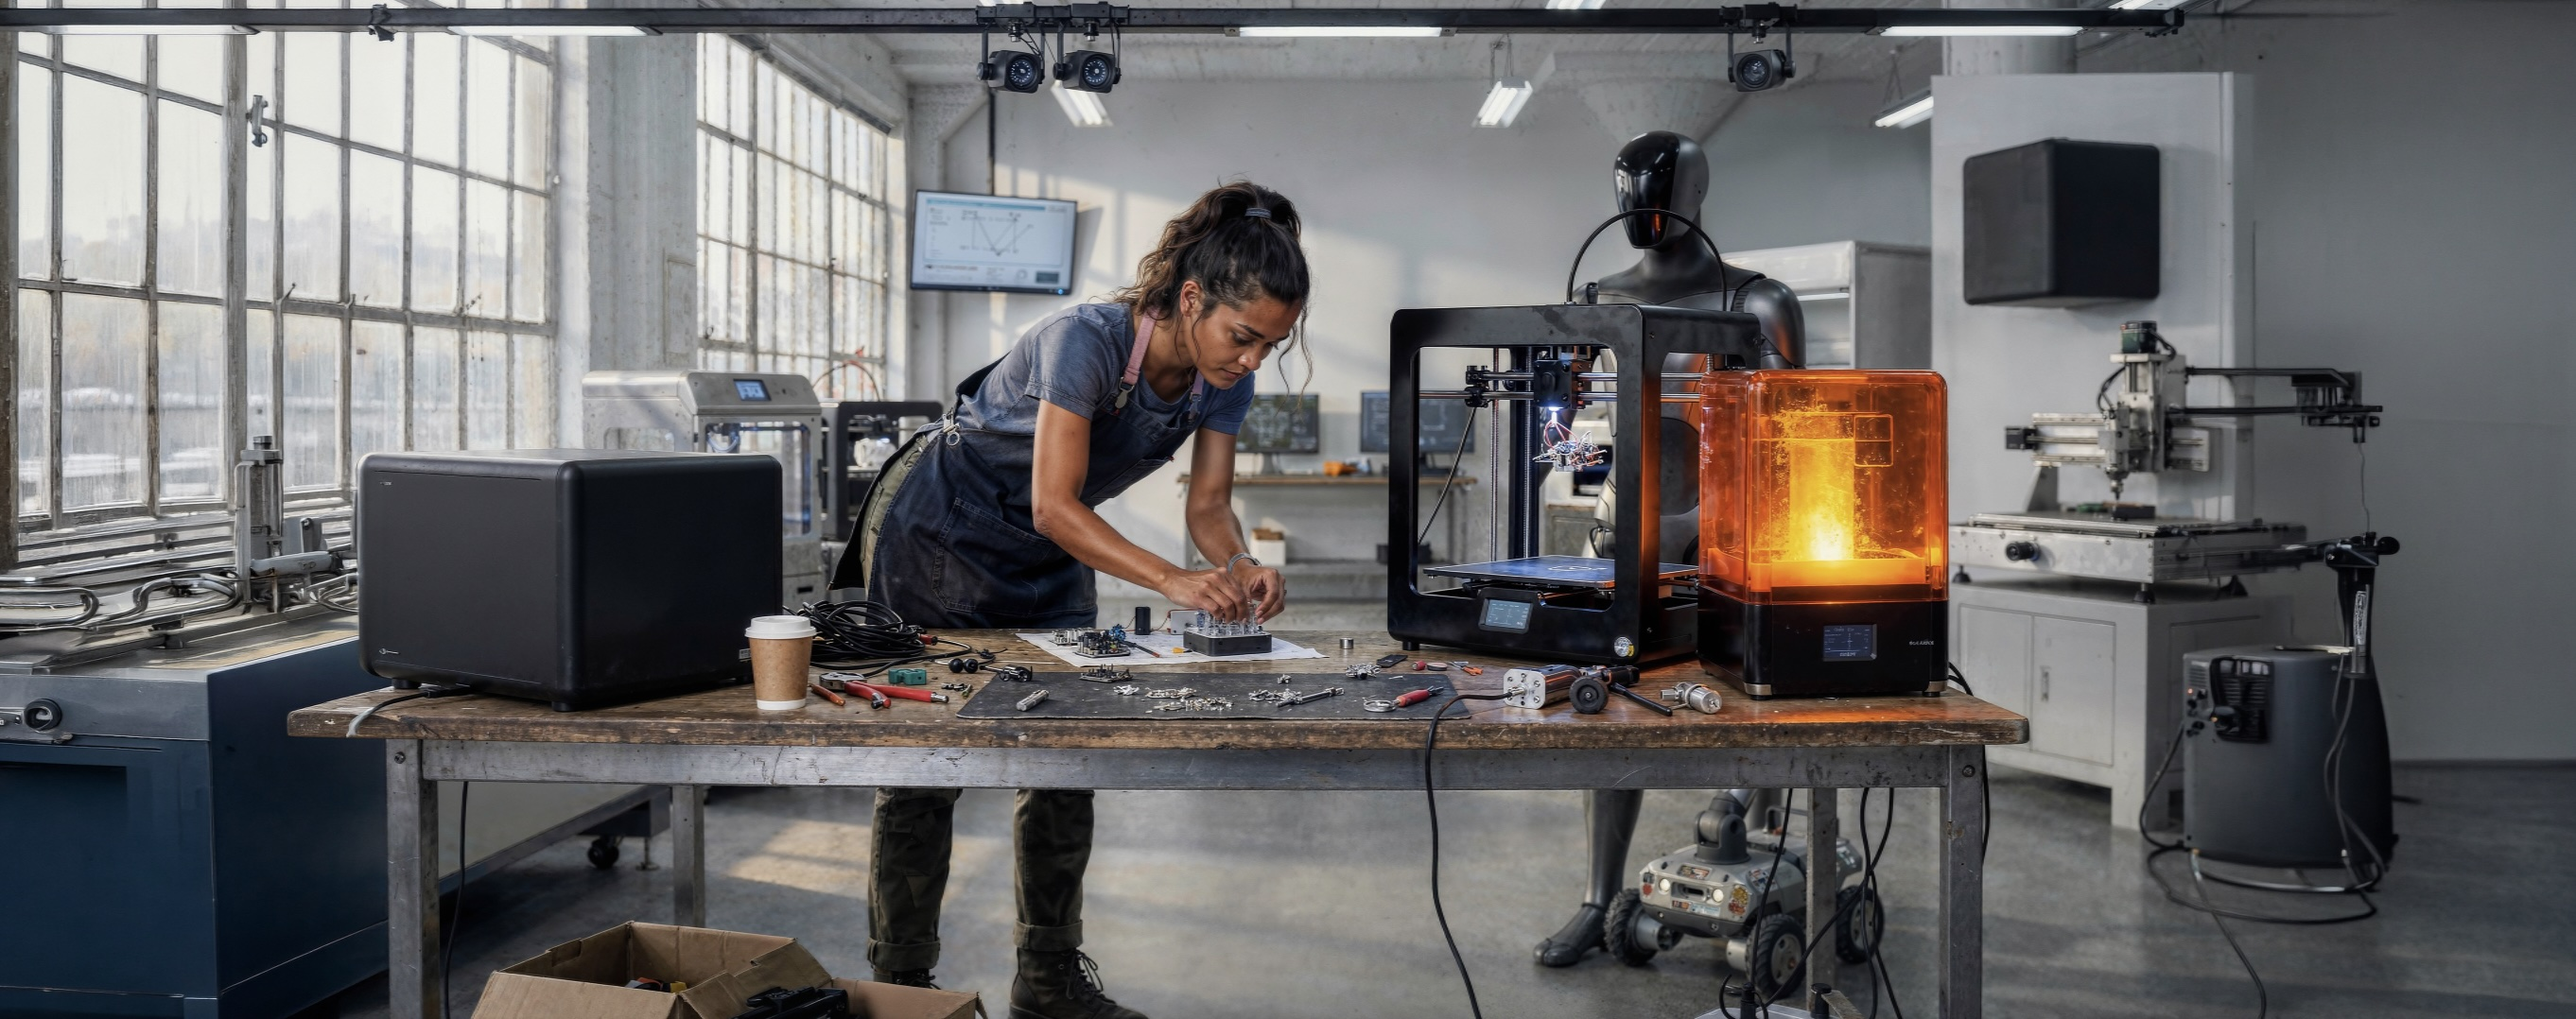
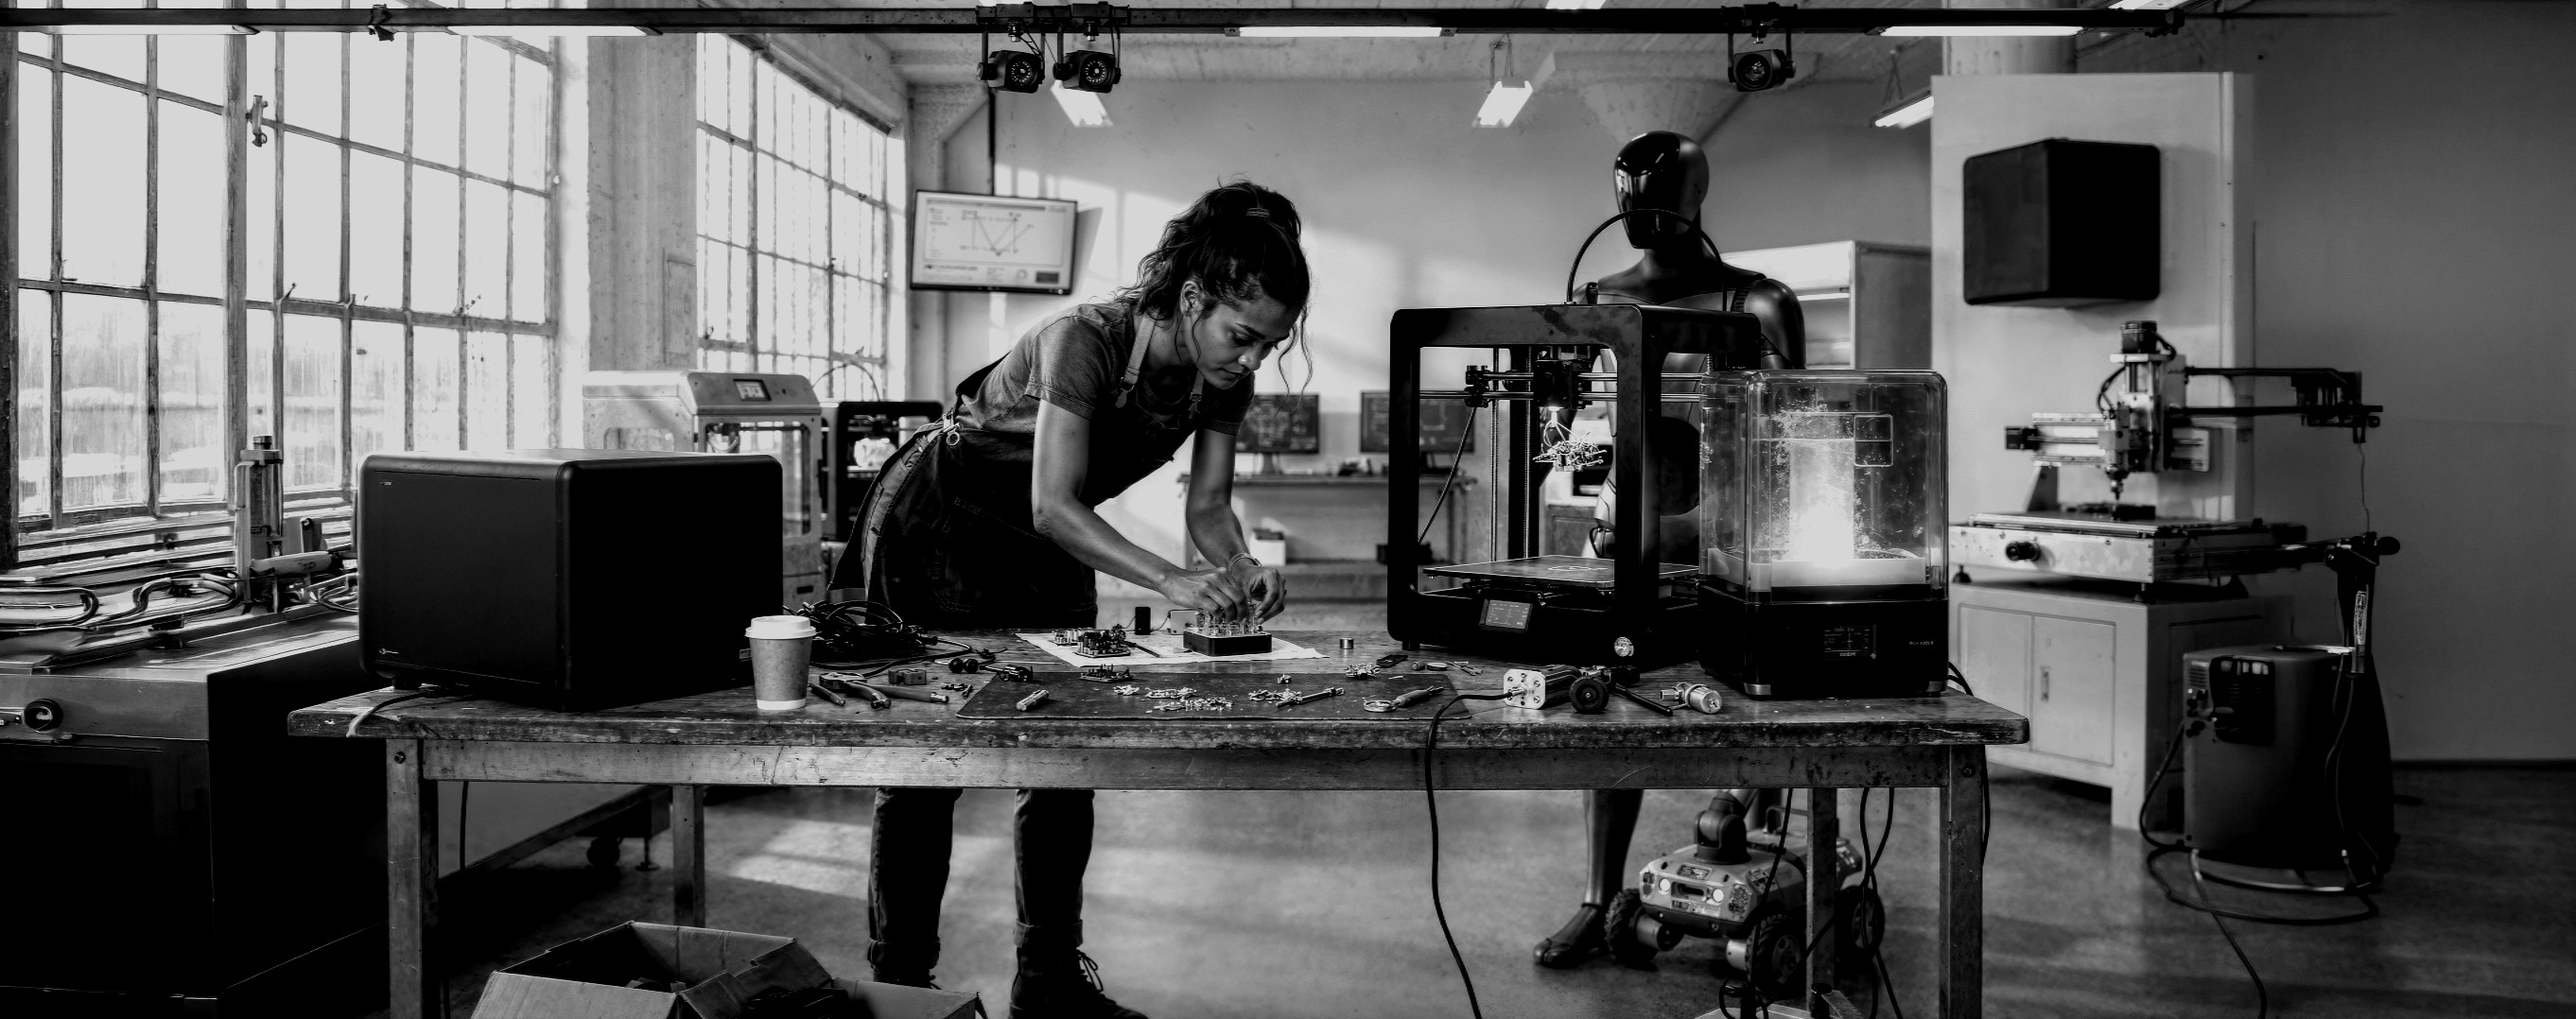
BW hero photo baked in, remove CSS grayscale filters

diff --git a/article-everything-garage.html b/article-everything-garage.html
@@ -70,7 +70,6 @@
             background: radial-gradient(ellipse at center, transparent 50%, rgba(232,230,227,0.35) 100%);
         }
         :root.light-theme .hero-image img {
-            filter: grayscale(1) contrast(1.6) brightness(0.84);
             opacity: 0.65;
         }
         /* Light theme: deck-overlay — terracotta thin lines (same as dark theme) */
@@ -502,7 +501,6 @@
             height: 100%;
             object-fit: cover;
             object-position: center 40%;
-            filter: grayscale(1) contrast(1.6) brightness(0.84);
             opacity: 0.65;
         }
         .hero-overlay {
